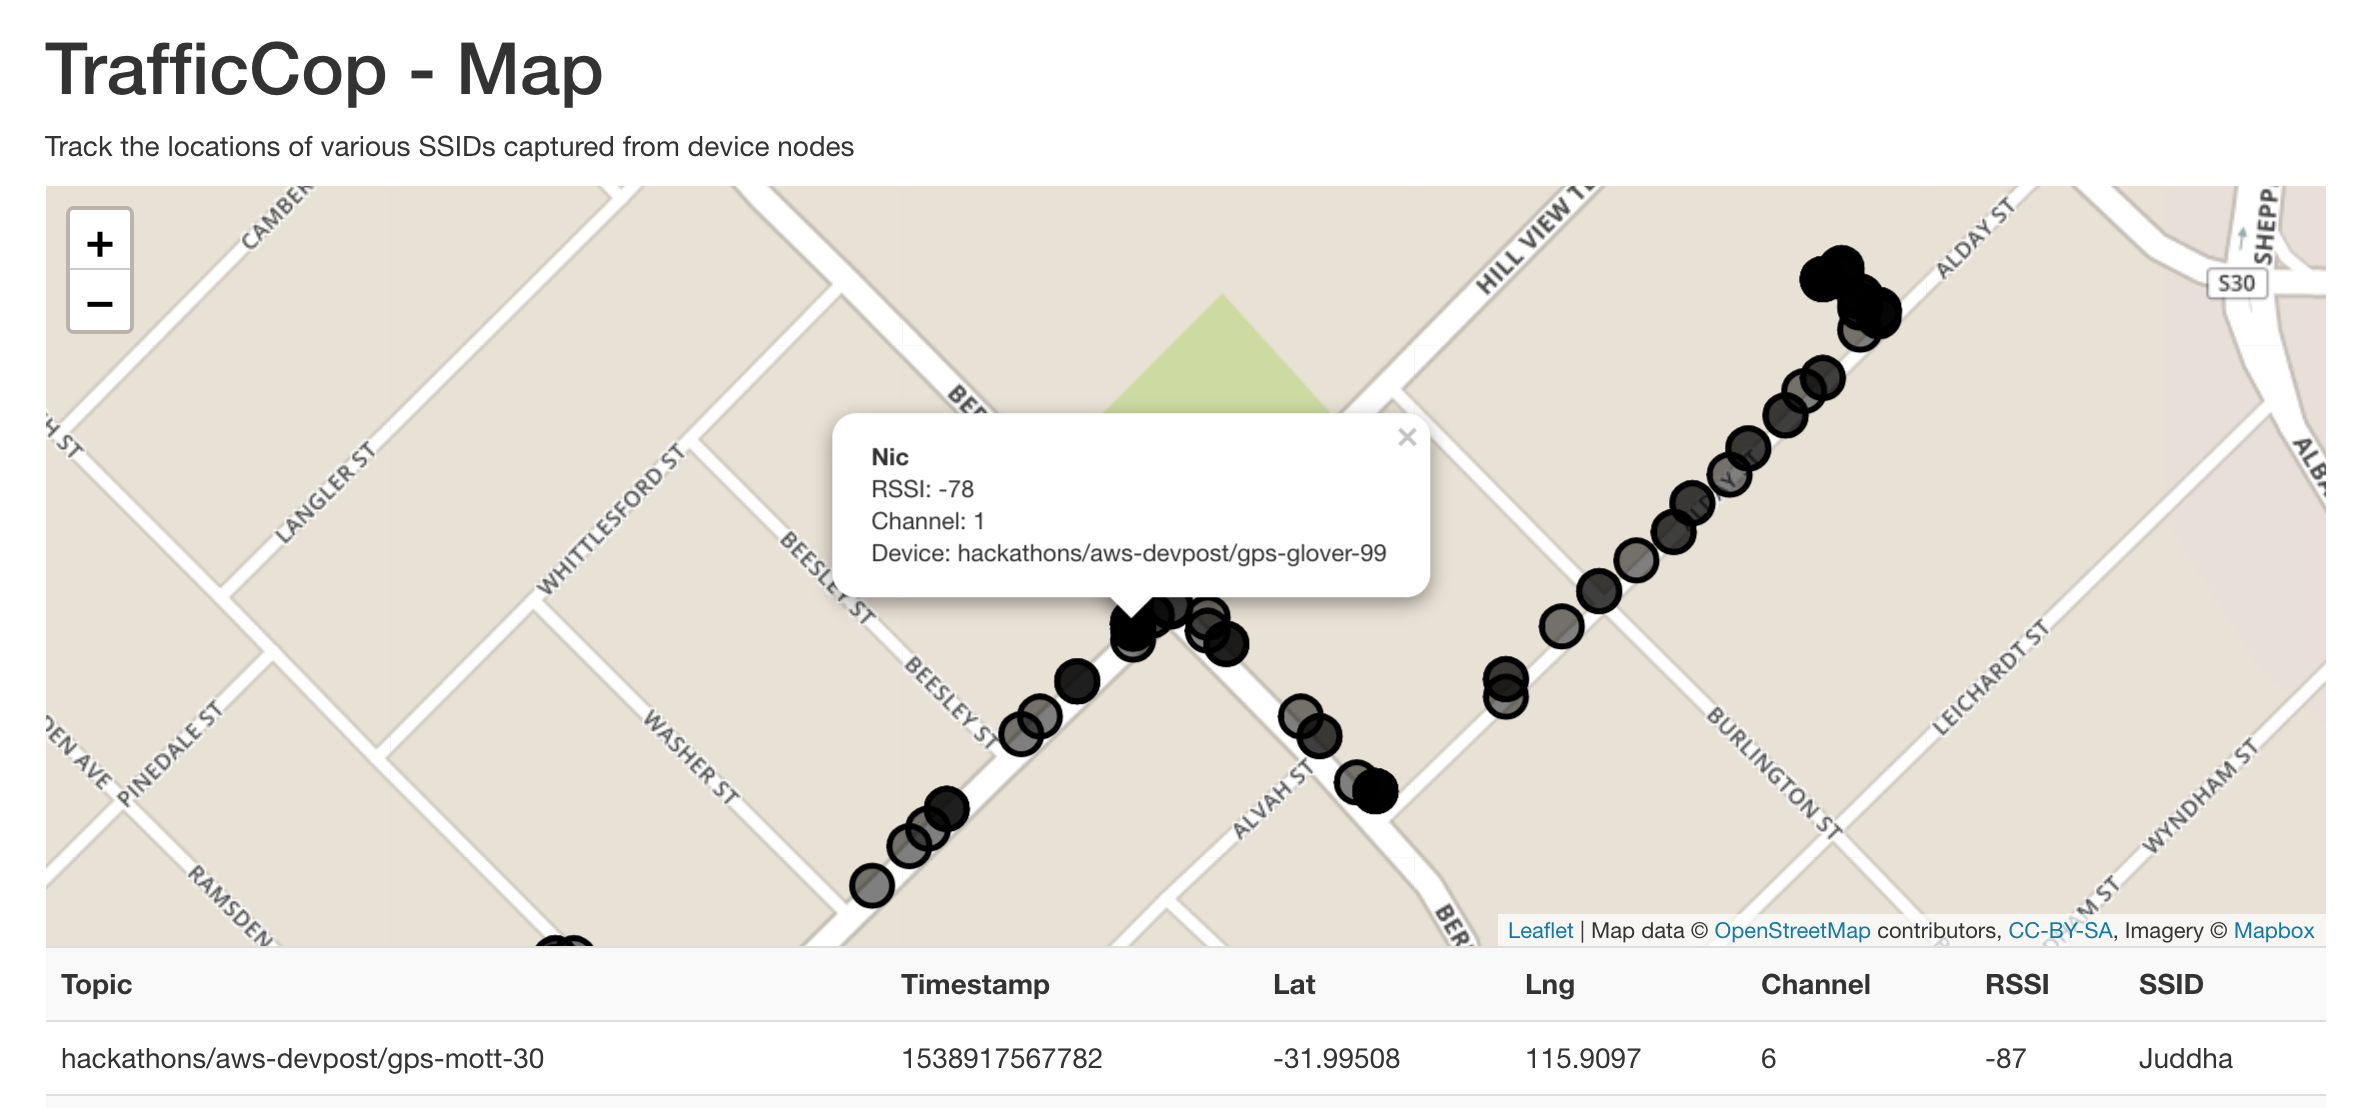
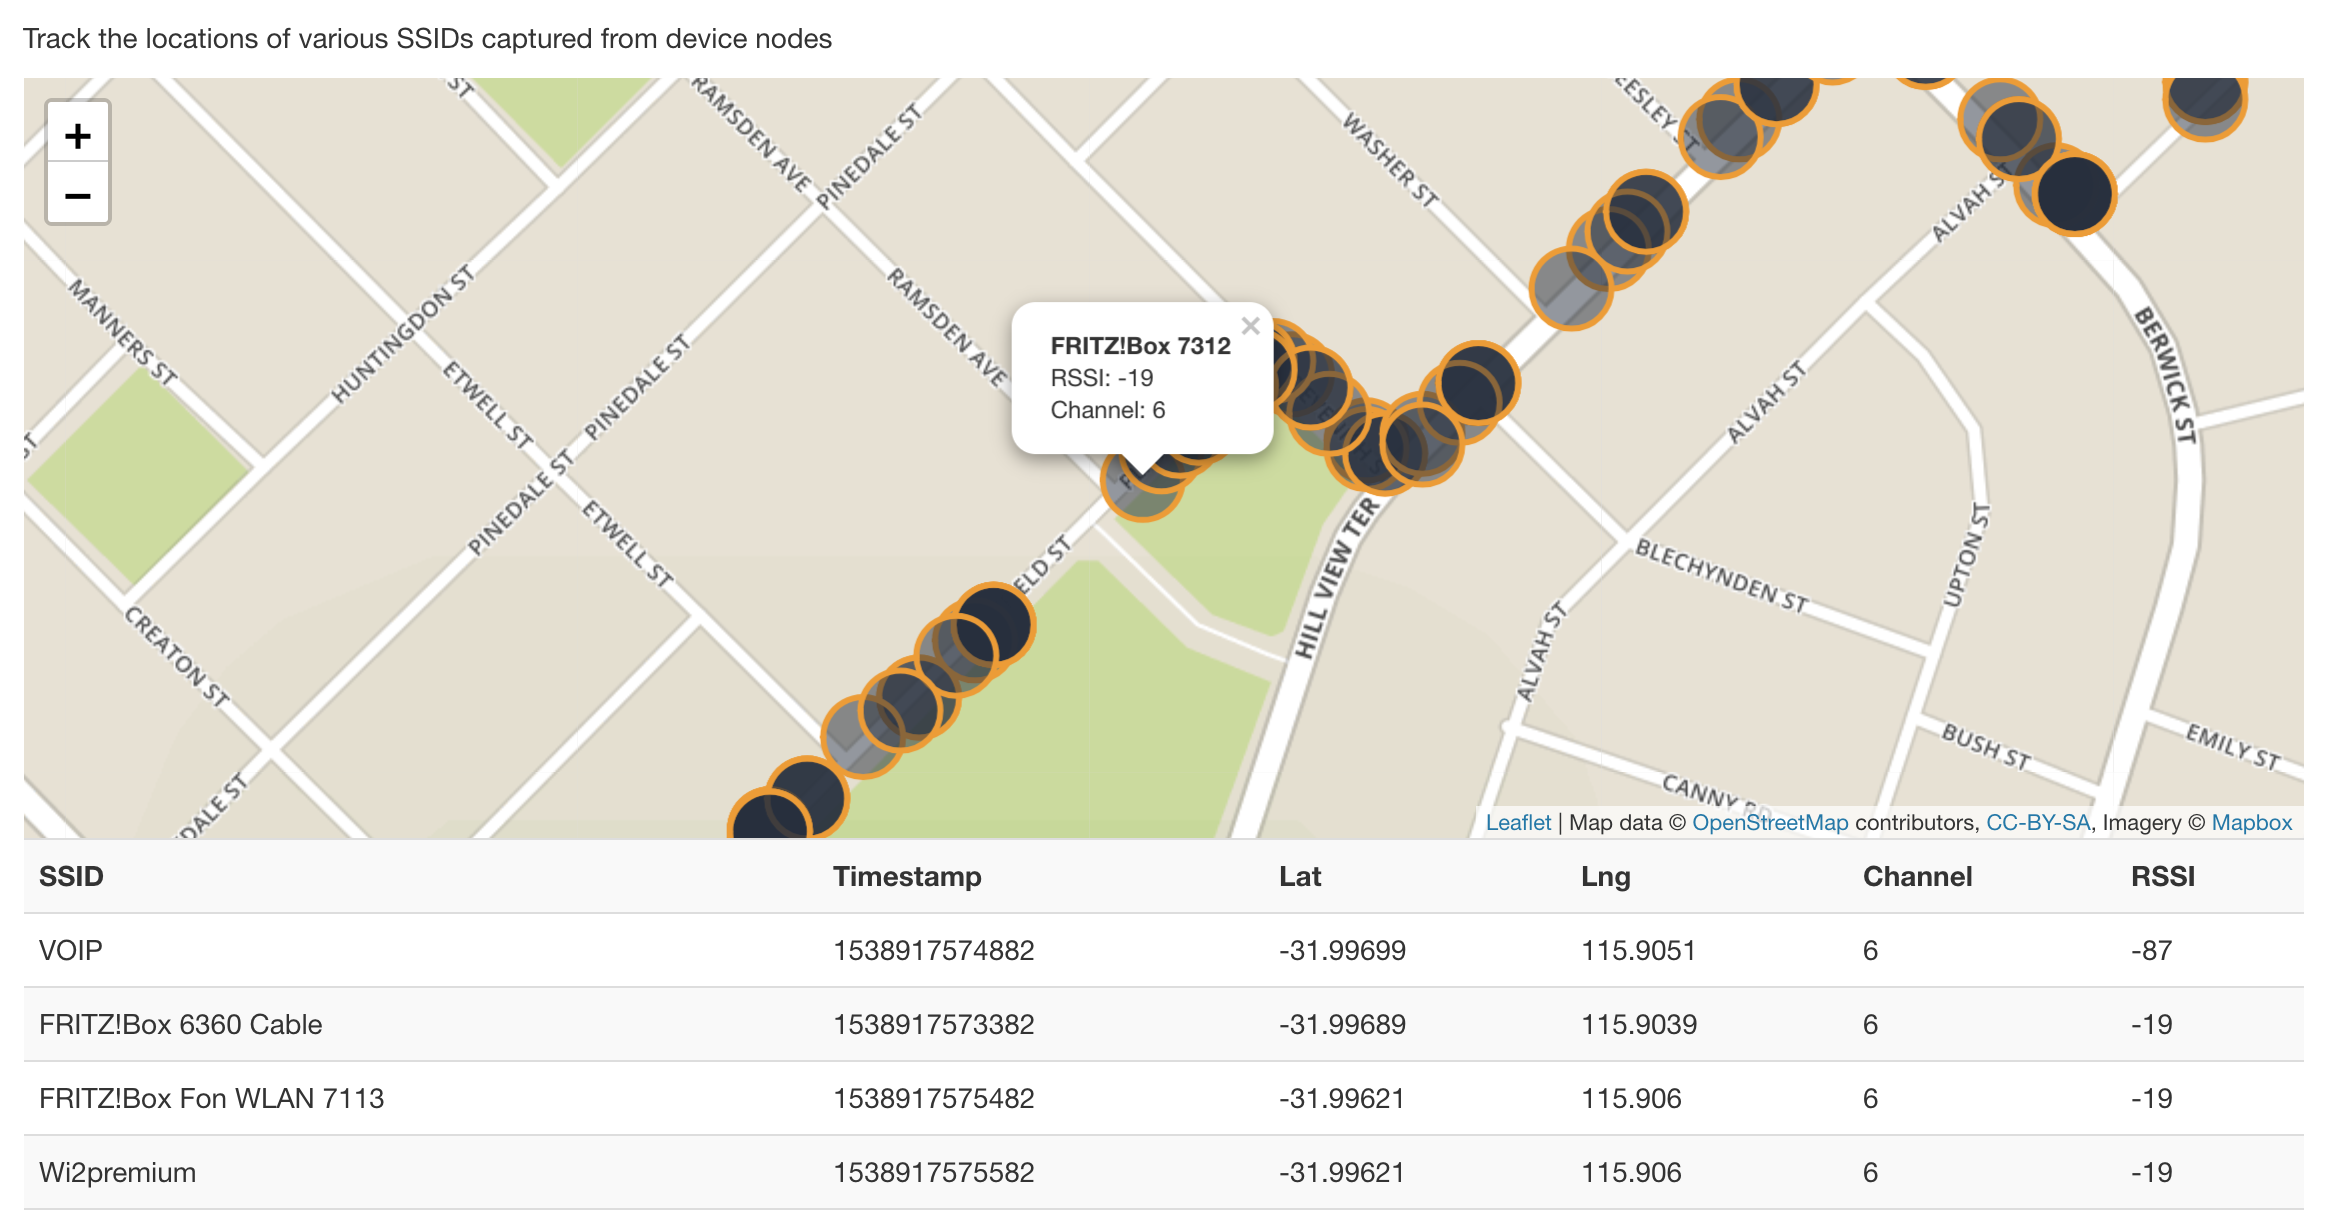
Fixed schema to use SSID

diff --git a/frontend/index.html b/frontend/index.html
@@ -22,13 +22,12 @@
         <div class='table-responsive'>
             <table class='table table-striped' style='display: none'>
                 <tr>
-                    <th>Topic</th>
+                    <th>SSID</th>
                     <th>Timestamp</th>
                     <th>Lat</th>
                     <th>Lng</th>
                     <th>Channel</th>
                     <th>RSSI</th>
-                    <th>SSID</th>
                 </tr>
             </table>
         </div>
@@ -40,38 +39,36 @@
     <script src='main.js'></script>
     <script>
         $(document).ready(function () {
-            var api_gateway_url = 'https://u0ttbl1mq3.execute-api.us-east-1.amazonaws.com/prod';
+            var api_gateway_url = 'https://edpq5mdima.execute-api.us-east-1.amazonaws.com/prod';
             var rows = [];
             $.get(api_gateway_url, function (data) {
                 data.forEach(function (item) {
-                    var topic = item['topic']['S'];
+                    var ssid = item['ssid']['S'];
                     var timestamp = item['timestamp']['N'];
                     var lat = item['payload']['M']['location']['L'][0]['N'];
                     var lng = item['payload']['M']['location']['L'][1]['N'];
                     var channel = item['payload']['M']['ssid']['M']['channel']['N'];
                     var rssi = item['payload']['M']['ssid']['M']['rssi']['N'];
-                    var ssid = item['payload']['M']['ssid']['M']['ssid']['S'];
 
                     rows.push(
                         `<tr> \
-                    <td>${topic}</td> \
+                    <td>${ssid}</td> \
                     <td>${timestamp}</td> \
                     <td>${lat}</td> \
                     <td>${lng}</td> \
                     <td>${channel}</td> \
                     <td>${rssi}</td> \
-                    <td>${ssid}</td> \
                 </tr>`
                     );
 
                     var circle = L.circle(
                         [lat, lng], {
-                        color: 'black',
-                        fillColor: '#000',
+                        color: '#F29B2D',
+                        fillColor: '#262F3E',
                         fillOpacity: 0.5,
-                        radius: 10
+                        radius: 20
                     }).addTo(leafletMap);
-                    circle.bindPopup(`<b>${ssid}</b></br>RSSI: ${rssi}</br>Channel: ${channel}</br>Device: ${topic}`);
+                    circle.bindPopup(`<b>${ssid}</b></br>RSSI: ${rssi}</br>Channel: ${channel}`);
                 });
                 // show the now filled table and hide the "loading" message
                 $('table.table').append(rows.join()).show();
